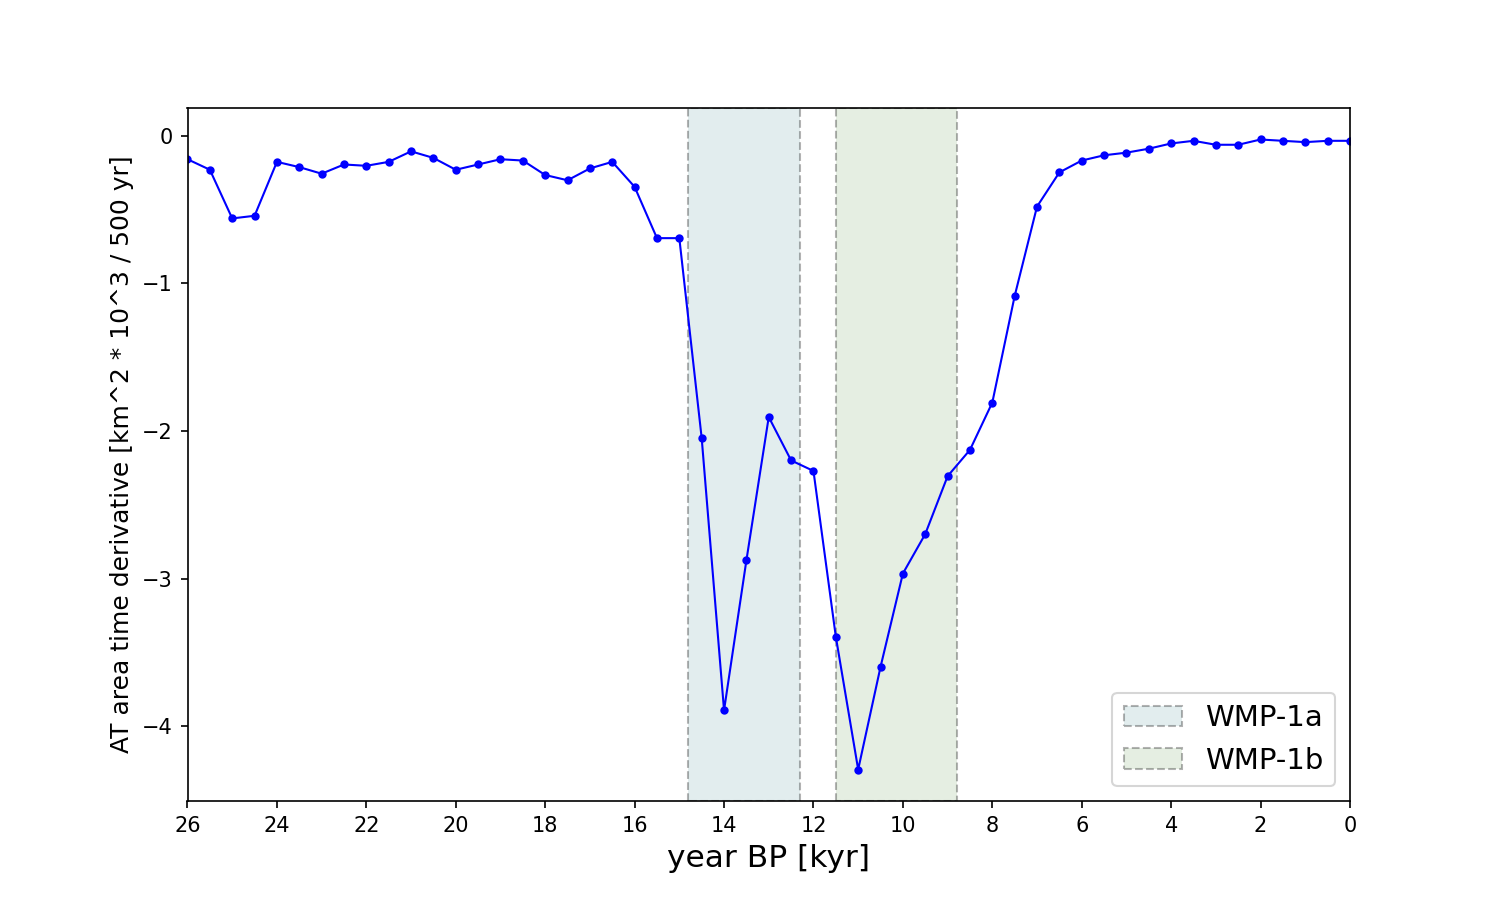
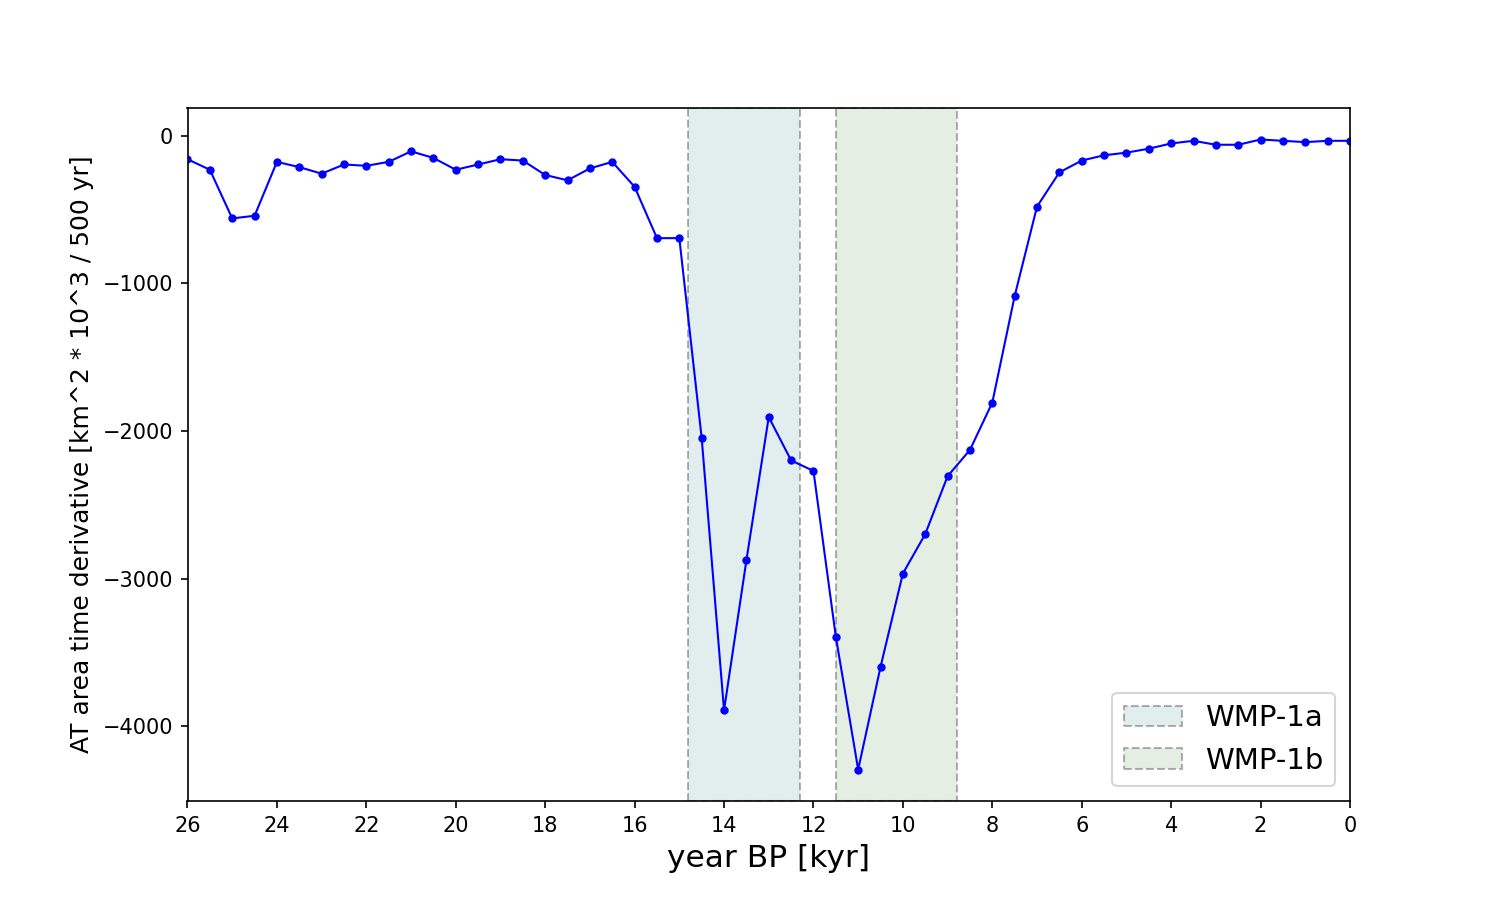
update last image and add link to SELEN github repository

Changed region(s): [[0.0307, 0.4356, 0.1227, 0.84], [0.0307, 0.1867, 0.1227, 0.3733]]

diff --git a/README.md b/README.md
@@ -17,15 +17,15 @@ is defined as the regions on Earth that have been cyclically inundated and expos
 and retreat of ice-sheets, in the period starting from the time the modern human first appeared on the Earth.
 Acquaterra is a strongly interdisciplinary topic that includes geography, archaeology, oceanography and geophysics.
 
-In this project we numerically calculate the distribution of acquaterra exploiting the outputs of SELEN, an open 
+In this project we numerically calculate the distribution of acquaterra exploiting the outputs of [SELEN](https://github.com/geodynamics/selen), an open 
 source software which solves the _sea-level equation_ in its complete version; that is, it takes into account
 the gravitational effects, the viscoelastic deformation of the Earth's interior, the migration of the coast lines and the effects
-associated with the variation of the rotational axis of Earth. To do so, SELEN applies an icosahedron-based pixellization
+associated with the variation of the rotational axis of Earth. To do so, [SELEN](https://github.com/geodynamics/selen) applies an icosahedron-based pixellization
 which divides the Earth's surface into many pixels with about the same area; moreover, for each pixel, it determines
 the sea-level, or analogously its inverse, that is the topography, in several epochs between the LGM and the
 present day using a time-step of typically 500 years.
 
-Among the many outputs given by SELEN we are interested in the solution of the **Continental Function** (CF).
+Among the many outputs given by [SELEN](https://github.com/geodynamics/selen) we are interested in the solution of the **Continental Function** (CF).
 This is a mask function which is defined on the Earth's surface and at any given time; in other words, it is a 
 function of the angular variable $\gamma=\gamma(\theta,\lambda)$ where $\theta$ is the latitude defined between 
 -90° and 90° and $\lambda$ is the longitude, conventionally defined between 0° and 360°. More specifically, the CF
@@ -44,16 +44,16 @@ $$
 ### Results
 
 The project's main script `distribution_acquaterra.py` consists of a main function that calls a set of functions 
-specifically designed to elaborate some  SELEN's outputs, specifically the CF and the topography, in order to calculate 
+specifically designed to elaborate some  [SELEN](https://github.com/geodynamics/selen)'s outputs, specifically the CF and the topography, in order to calculate 
 the spatial distribution of Acquaterra, the time evolution of the submerged area of acquaterra and, finally, some 
 statistics of acquaterra. These results are saved in an output directory. The detailed description of the input data, 
-of the structure and the method used in the project, and of the output files is illustrated in `manual.pdf` file
+of the structure and the method used in the project, and of the output files is illustrated in [MANUAL.md](MANUAL.md) file
 available in this repository.
 
 
 ## Requirements ##
 
-The main code is verified to properly work on the 3.8, 3.9, 3.10, 3.11, 3.12 and 3.13 python versions.
+The main code is verified to properly work on the `3.8`, `3.9`, `3.10`, `3.11`, `3.12` and `3.13` python versions.
 
 The dependencies of the code are the following python modules:
 - `numpy`
